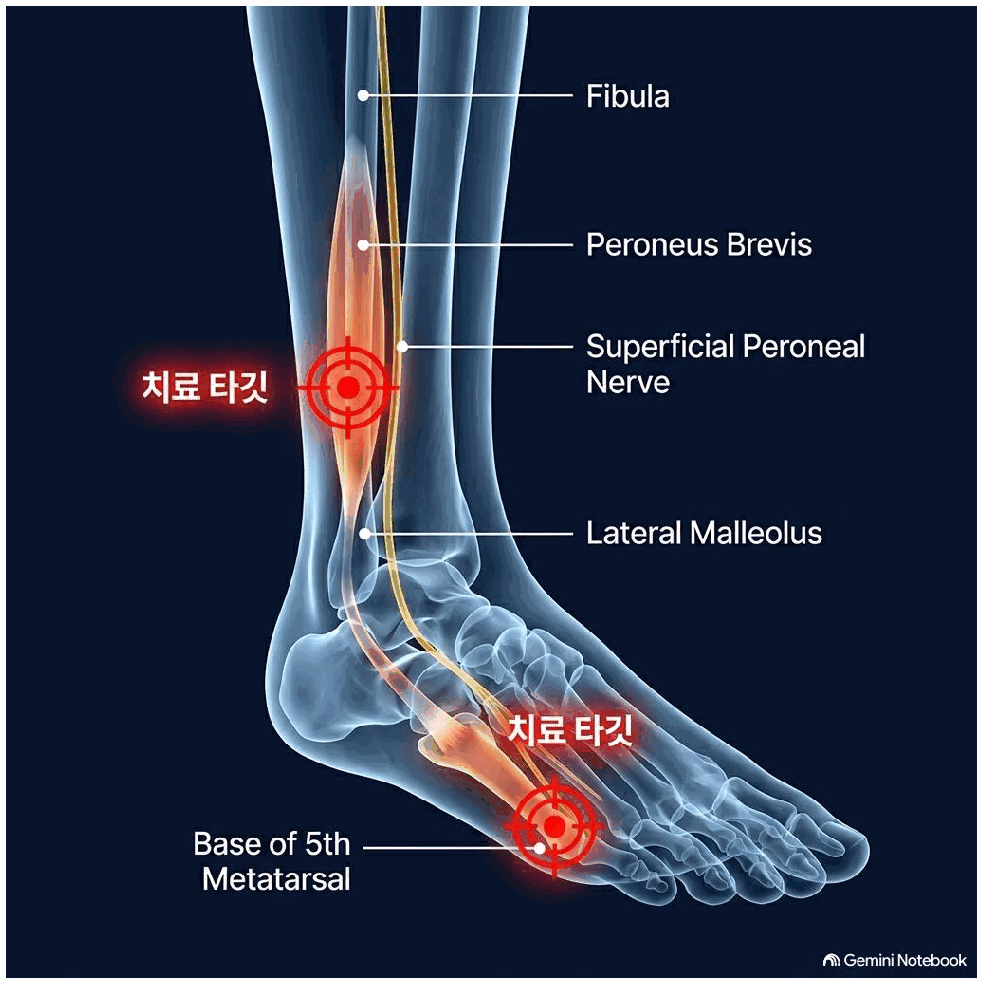
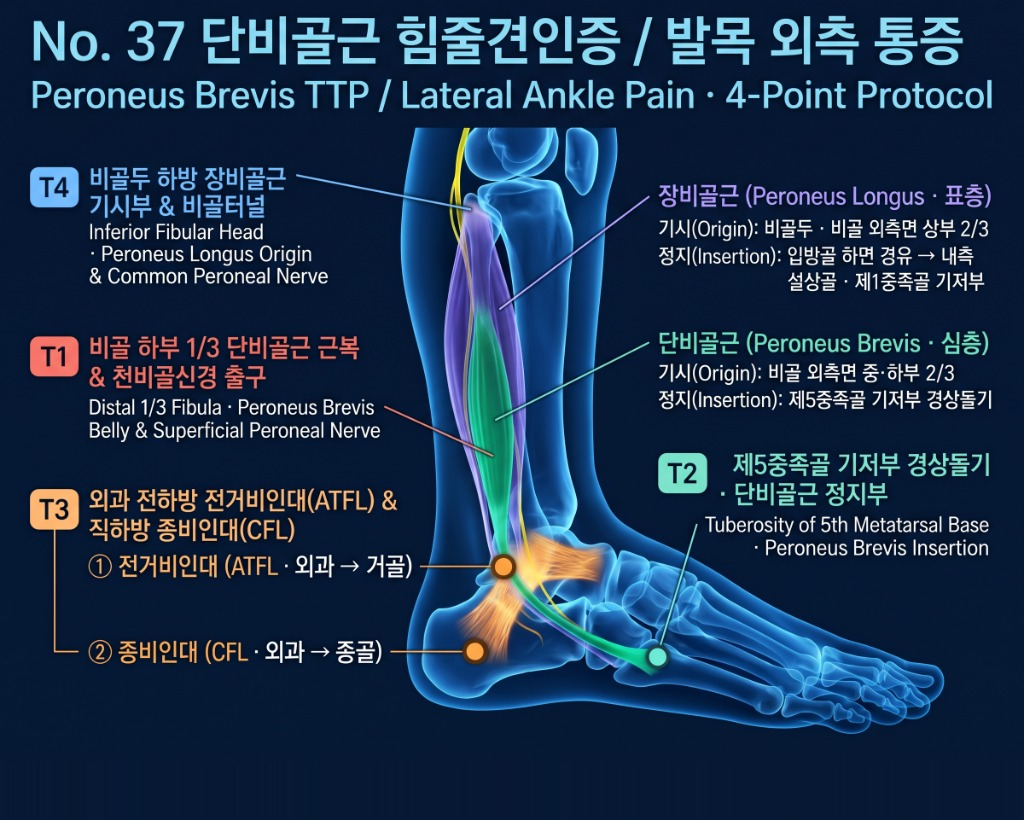
feat(healing-app): upgrade No.37 peroneus brevis & lateral ankle pain plate and align T1-T4 pins

diff --git a/healing-app/js/pain_data.js b/healing-app/js/pain_data.js
@@ -4676,7 +4676,7 @@ window.PAIN_CONDITIONS = [
     ],
     "title": {
       "ko": "단비골근 힘줄견인증 / 발목 외측 통증",
-      "en": "Peroneus Brevis TTP / Lateral Ankle Pain"
+      "en": "Peroneus Brevis TTP / Lateral Ankle Pain (4-Point Protocol)"
     },
     "symptoms": {
       "ko": "발목 외측 복사뼈 뒤쪽 및 5번 중족골 기저부 통증, 양반 다리 시 발목 바깥쪽 통증.",
@@ -4687,12 +4687,12 @@ window.PAIN_CONDITIONS = [
       "en": "TTP in peroneus brevis induces periosteal irritation at insertion on 5th metatarsal base."
     },
     "targetTissues": {
-      "ko": "단비골근(Peroneus brevis) 근복.",
-      "en": "Peroneus brevis muscle belly."
+      "ko": "단비골근(Peroneus Brevis · 심층 · 기시: 비골 외측면 중·하부 2/3 / 정지: 제5중족골 기저부 경상돌기), 장비골근(Peroneus Longus · 표층 · 기시: 비골두·비골 외측면 상부 2/3 / 정지: 입방골 하면 경유 → 내측 설상골·제1중족골 기저부), 외과 전하방 전거비인대(ATFL)·직하방 종비인대(CFL), 비골터널 총비골신경 및 천비골신경.",
+      "en": "Peroneus Brevis (deep, inserting at 5th metatarsal base tuberosity), Peroneus Longus (superficial, originating at fibular head), anterior talofibular ligament (ATFL), calcaneofibular ligament (CFL), and common/superficial peroneal nerve."
     },
     "palpation": {
-      "ko": "비골 하방 1/3 높이 단비골근 근복 및 5번 중족골 기저부 부착부 압통점.",
-      "en": "Peroneus brevis belly in lower 1/3 of fibula and attachment at 5th metatarsal base."
+      "ko": "① 비골 하부 1/3 단비골근 근복 및 천비골신경 출구 ② 제5중족골 기저부 경상돌기 단비골근 정지부 ③ 외과 전하방 전거비인대(ATFL) 및 직하방 종비인대(CFL) ④ 비골두 하방 장비골근 기시부 & 비골터널.",
+      "en": "Distal 1/3 fibula peroneus brevis belly & superficial peroneal nerve exit, tuberosity of 5th metatarsal base, ATFL & CFL around the lateral malleolus, and inferior fibular head peroneal tunnel."
     },
     "clinicalCase": {
       "ko": "보행 또는 양반다리 시 발목 외측 복사뼈 뒤쪽과 제5중족골 기저부에 통증이 유발되던 단비골근 건 견인통 사례. 하퇴 외측 비골근 근복 및 제5중족골 부착부에 NovaCell Therapy를 통전하여 외측 건막 긴장을 소거하고 양반다리 시 통증 완쾌.",
@@ -4703,73 +4703,73 @@ window.PAIN_CONDITIONS = [
       {
         "code": "T1",
         "color": "#ff334b",
-        "x": 19.8,
-        "y": 39.1,
+        "x": 48.2,
+        "y": 55.6,
         "role": {
           "ko": "주 신경포착점",
-          "en": "Primary Nerve Entrapment"
+          "en": "Primary Nerve & Belly Target"
         },
         "name": {
-          "ko": "T1: 비골 하부 1/3 단비골근(Peroneus Brevis) 근복 및 천비골신경 출구점",
-          "en": "T1: Distal 1/3 Fibula Peroneus Brevis Belly & Superficial Peroneal Exit"
+          "ko": "T1: 비골 하부 1/3 단비골근 근복 & 천비골신경 출구",
+          "en": "T1: Distal 1/3 Fibula · Peroneus Brevis Belly & Superficial Peroneal Nerve"
         },
         "desc": {
-          "ko": "[표적 해부] 바깥쪽 정강이 하부 1/3 비골 외측면의 단비골근 근복 및 천비골신경이 심근막을 뚫고 나오는 지점.\n[촉지 및 시술] 외과 상방 4~6FB 비골 외측 압통점. 발목을 자주 삐끗하거나 바깥쪽 복사뼈 위아래가 시큰거리는 통증의 주동근 타깃입니다.",
-          "en": "Distal third of lateral fibula over peroneus brevis belly and superficial peroneal nerve exit."
+          "ko": "[표적 해부] 비골 외측면 하부 1/3 심층 단비골근(Peroneus Brevis) 근복과 천비골신경(Superficial Peroneal Nerve)이 근막을 뚫고 나오는 포착 출구.\n[촉지 및 시술] 외과(바깥쪽 복숭아뼈) 위쪽 약 8~10cm 비골 외측면 압통점. 하퇴 바깥쪽 뻐근함과 발등 외측 저림·시림을 해소합니다.",
+          "en": "Distal third of the fibula where the superficial peroneal nerve pierces the crural fascia over the peroneus brevis belly."
         }
       },
       {
         "code": "T2",
         "color": "#00f5d4",
-        "x": 35.3,
-        "y": 39.4,
+        "x": 64.2,
+        "y": 79.9,
         "role": {
           "ko": "힘줄·골막 부착점",
-          "en": "Tendon & Periosteal Target"
+          "en": "Tendon Insertion Target"
         },
         "name": {
-          "ko": "T2: 제5중족골 기저부 경상돌기(Base of 5th Metatarsal) 단비골근 정지부 골막 부착점",
-          "en": "T2: Base of 5th Metatarsal Styloid Process Peroneus Brevis Periosteal Contact"
+          "ko": "T2: 제5중족골 기저부 경상돌기 · 단비골근 정지부",
+          "en": "T2: Tuberosity of 5th Metatarsal Base · Peroneus Brevis Insertion"
         },
         "desc": {
-          "ko": "[표적 해부] 발 바깥쪽 중간에 툭 튀어나온 제5중족골 기저부 조면 단비골근 정지건 및 제3비골근 골막 부착부.\n[촉지 및 시술] 제5중족골 기저부 뼈 돌기 골막 접촉. 걸을 때 발 바깥쪽 가장자리가 아픈 힘줄견인통을 즉각 해소합니다.",
-          "en": "Periosteal insertion of peroneus brevis tendon at tuberosity of base of 5th metatarsal."
+          "ko": "[표적 해부] 발 바깥쪽 중족부 볼록한 제5중족골 기저부 경상돌기(Tuberosity of 5th Metatarsal Base)의 단비골근 정지건 골막 부착부.\n[촉지 및 시술] 새끼발가락 쪽 발 날을 따라 뒤로 만져지는 가장 뚜렷한 뼈 돌출부. 보행 시 발 바깥쪽 가장자리가 콕콕 찌르고 시큰거리는 힘줄견인통을 직접 해결합니다.",
+          "en": "Primary insertion of the peroneus brevis tendon at the tuberosity of the 5th metatarsal base; directly resolves lateral midfoot traction pain."
         }
       },
       {
         "code": "T3",
         "color": "#ff9f43",
-        "x": 56.6,
-        "y": 83.0,
+        "x": 49.1,
+        "y": 69.2,
         "role": {
-          "ko": "힘줄·골막 부착점",
-          "en": "Tendon & Periosteal Target"
+          "ko": "관절낭·인대점",
+          "en": "Lateral Ligament Target"
         },
         "name": {
-          "ko": "T3: 외과 전하방 전거비인대(ATFL) 및 직하방 종비인대(CFL) 골막 부착점",
-          "en": "T3: Anteroinferior ATFL & Inferior CFL Lateral Ankle Ligament Periosteal Contact"
+          "ko": "T3: 외과 전하방 전거비인대(ATFL) & 직하방 종비인대(CFL)",
+          "en": "T3: Lateral Malleolus · ATFL (Fibula to Talus) & CFL (Fibula to Calcaneus)"
         },
         "desc": {
-          "ko": "[표적 해부] 외과 전하방 전거비인대(ATFL) 거골 부착점(HP-AS-01) 및 직하방 종비인대(CFL)·하비골근지대(HP-AS-02).\n[촉지 및 시술] 발목 염좌 후 남는 만성 발목 외측 불안정증과 인대 골막 손상을 재생·복원합니다.",
-          "en": "Anterior talofibular ligament (ATFL) and calcaneofibular ligament (CFL) insertions around lateral malleolus."
+          "ko": "[표적 해부] 발목 바깥쪽 외과(복숭아뼈) 전하방의 ① 전거비인대(ATFL · 외과 → 거골) 및 외과 직하방의 ② 종비인대(CFL · 외과 → 종골)와 비골건지대.\n[촉지 및 시술] 외과 앞아래 오목한 인대 부착부(ATFL)와 외과 바로 아래 종골 방향 인대선(CFL)을 순차적으로 이완하여 발목 접질림 후 만성 외측 불안정증과 시큰거림을 회복합니다.",
+          "en": "ATFL (anteroinferior lateral malleolus to talus) and CFL (inferior lateral malleolus to calcaneus); stabilizes chronic lateral ankle sprain sequelae."
         }
       },
       {
         "code": "T4",
         "color": "#38bdf8",
-        "x": 62.0,
-        "y": 38.0,
+        "x": 45.6,
+        "y": 25.5,
         "role": {
-          "ko": "힘줄·골막 부착점",
-          "en": "Tendon & Periosteal Target"
+          "ko": "기시부·신경터널점",
+          "en": "Proximal Origin & Fibular Tunnel"
         },
         "name": {
-          "ko": "T4: 비골두 하방 장비골근(Peroneus Longus) 기시부 및 비골터널점",
-          "en": "T4: Sub-Fibular Head Peroneus Longus & Fibular Tunnel Point"
+          "ko": "T4: 비골두 하방 장비골근 기시부 & 비골터널 (총비골신경)",
+          "en": "T4: Inferior Fibular Head · Peroneus Longus Origin & Common Peroneal Nerve"
         },
         "desc": {
-          "ko": "[표적 해부] 무릎 외측 아래 비골두 직하방 장비골근 상부 근복 및 총비골신경 분기점.\n[촉지 및 시술] 외측 비골근 사슬의 상류 신경·근막 긴장을 함께 풀어 발목 외반 근력을 회복시킵니다.",
-          "en": "Proximal peroneus longus belly just below fibular head over fibular tunnel."
+          "ko": "[표적 해부] 무릎 외하방 비골두 직하방의 표층 장비골근(Peroneus Longus) 기시부 건막 아치와 그 아래를 통과하는 총비골신경(Common Peroneal Nerve) 비골터널.\n[촉지 및 시술] 비골두 바로 아래 1~2cm 비골경부 외측. 장비골근의 근위부 과긴장과 총비골신경 압박을 풀어 하퇴 외측 전체의 장력을 낮춥니다.",
+          "en": "Proximal peroneus longus origin and fibular tunnel right below the fibular head where the common peroneal nerve winds around the fibular neck."
         }
       }
     ],
